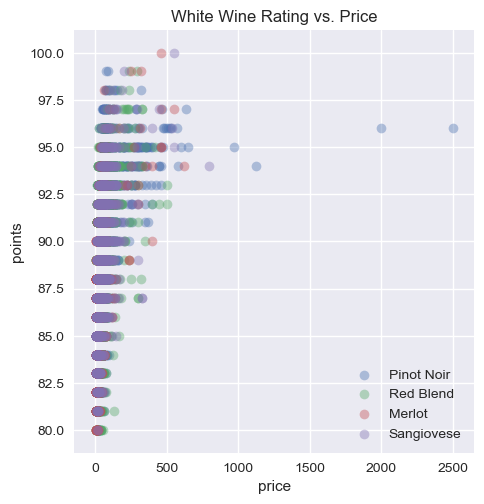
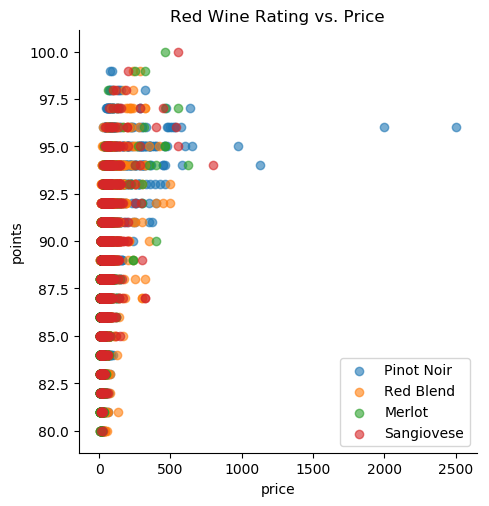
added plots

diff --git a/VScode/WineAnalysis.py b/VScode/WineAnalysis.py
@@ -7,31 +7,54 @@ import matplotlib.pyplot as plt
 wine_data = pd.read_csv('winemag-data-130k-v2.csv')
 
 #wines we are searching for
-target_wines = ['Pinot Noir','Riesling','Sauvignon Blanc','Sangiovese','White Blend','Red Blend','Merlot','Chardonnay']
 white_wines = ['Riesling','Sauvignon Blanc','White Blend','Chardonnay']
 red_wines = ['Merlot', 'Sangiovese', 'Red Blend', 'Pinot Noir']
 
-# for wine in white_wines:
-#     # data = wine_data[wine_data['variety'] == wine]
-#     # sns.lmplot(x='price', y = 'points', data = data, fit_reg = False)
-#     # plt.grid()
-#     # plt.title(f'{wine} price vs rating')
-#     # plt.savefig(f'{wine}points.png')
-
 white_data = wine_data.loc[wine_data['variety'].isin(white_wines)]
 red_data = wine_data.loc[wine_data['variety'].isin(red_wines)]
+top_range = 95
 
-# plt.rcParams['figure.figsize'] = 10,10
-sns.set(rc={'figure.figsize':(11.7,8.27)})
-sns.lmplot(x='price',y='points', data = white_data, hue = 'variety', fit_reg = False, scatter_kws={'alpha':0.4}, legend=False)
+top_white_wines = white_data[white_data['points'] >= top_range]
+top_red_wines = red_data[red_data['points'] >= top_range]
+top_wines = wine_data[wine_data['points'] >= top_range]
+
+sns.lmplot(x='price',y='points', data = white_data, hue = 'variety', fit_reg = False, scatter_kws={'alpha':0.6}, legend=False)
 plt.legend(loc='upper right')
-plt.tight_layout()
 plt.title('White Wine Rating vs. Price')
 plt.savefig('White_Wines.png', bbox_inches='tight')
+plt.clf()
 
-sns.set(rc={'figure.figsize':(11.7,8.27)})
-sns.lmplot(x='price',y='points', data = red_data, hue = 'variety', fit_reg = False, scatter_kws={'alpha':0.4}, legend=False)
+sns.lmplot(x='price',y='points', data = red_data, hue = 'variety', fit_reg = False, scatter_kws={'alpha':0.6}, legend=False)
 plt.legend(loc='lower right')
-plt.tight_layout()
-plt.title('White Wine Rating vs. Price')
+plt.title('Red Wine Rating vs. Price')
 plt.savefig('Red_Wines.png', bbox_inches='tight')
+plt.clf()
+
+top_white_plot = sns.stripplot(x='country', y = 'points', data = top_white_wines, jitter = True)
+top_white_plot.set_title('White Wine Quality vs. Country')
+top_white_plot.set_xticklabels(top_white_plot.get_xticklabels(), rotation = 90)
+plt.savefig('White_points_Country.png', bbox_inches='tight')
+plt.clf()
+
+price_white_plot = sns.stripplot(x='country', y = 'price', data = top_white_wines)
+price_white_plot.set_title('White Wine Price vs. Country')
+price_white_plot.set_xticklabels(price_white_plot.get_xticklabels(), rotation = 90)
+plt.savefig('White_price_Country.png', bbox_inches='tight')
+plt.clf()
+
+top_red_plot = sns.stripplot(x='country', y = 'points', data = top_red_wines, jitter = True)
+top_red_plot.set_title('Red Wine Quality vs. Country')
+top_red_plot.set_xticklabels(top_red_plot.get_xticklabels(), rotation = 90)
+plt.savefig('Red_points_Country.png', bbox_inches='tight')
+plt.clf()
+
+price_red_plot = sns.stripplot(x='country', y = 'price', data = top_red_wines)
+price_red_plot.set_title('Red Wine Price vs. Country')
+price_red_plot.set_xticklabels(price_red_plot.get_xticklabels(), rotation = 90)
+plt.savefig('red_price_Country.png', bbox_inches='tight')
+plt.clf()
+
+top_countries_plot = sns.countplot(x='country', data = top_wines)
+top_countries_plot.set_xticklabels(top_countries_plot.get_xticklabels(), rotation = 90)
+top_countries_plot.set_title(f'Total Wines rated over {top_range} per country')
+plt.savefig('top_countries.png', bbox_inches='tight')
